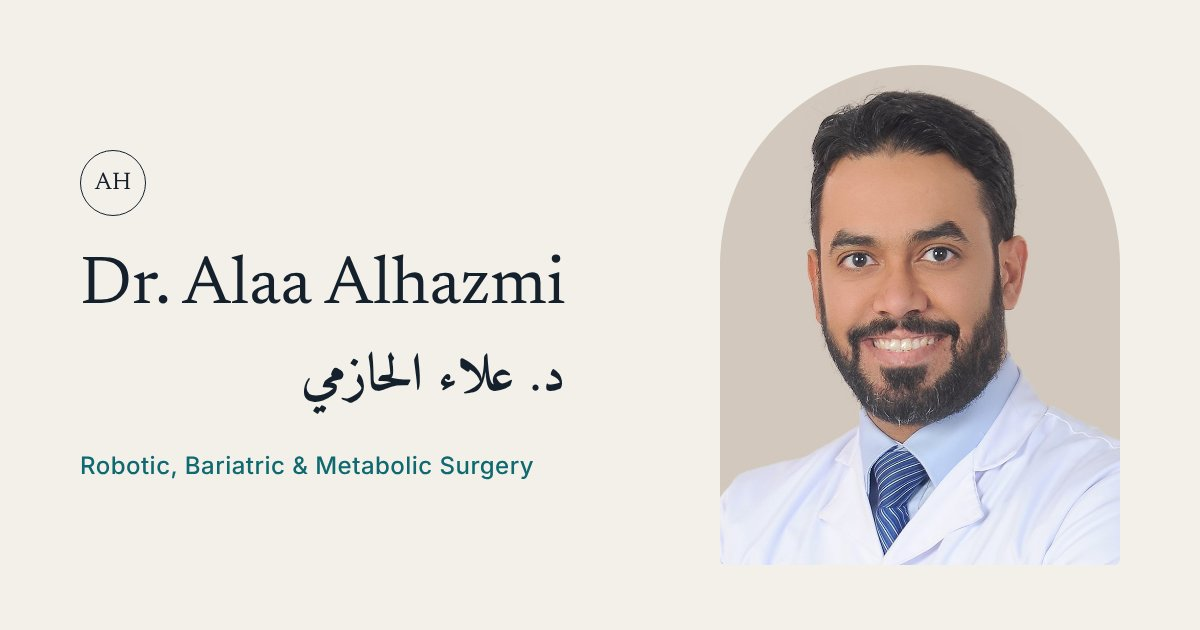
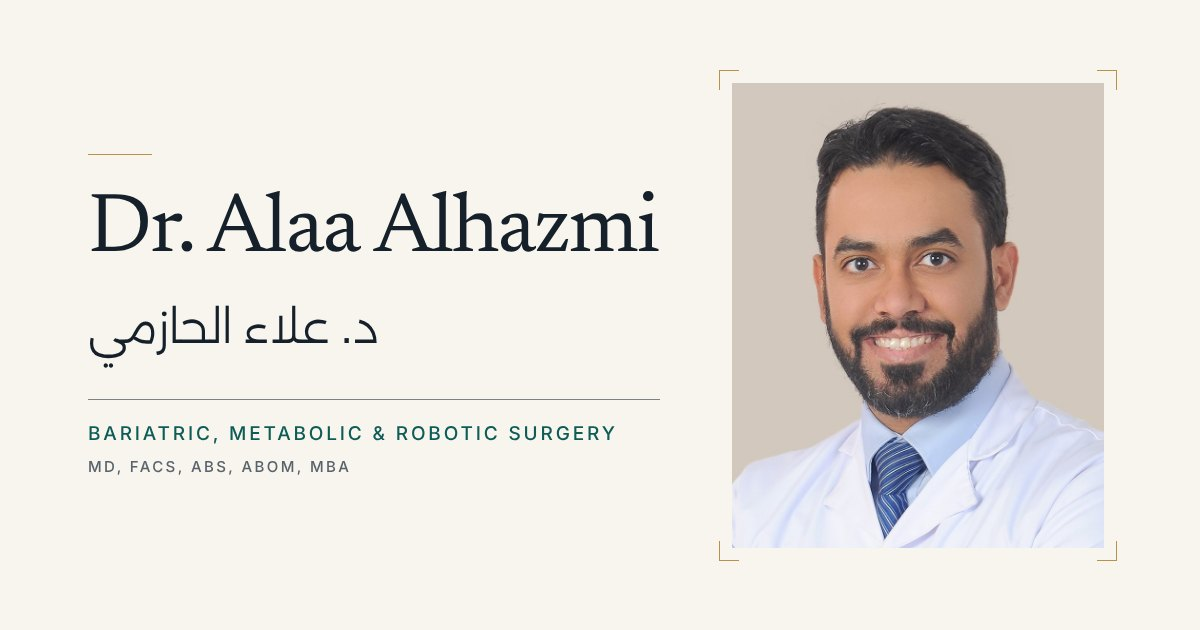
Use one tagline everywhere and relabel the 15+ figure
- Tagline is now 'Bariatric, Metabolic & Robotic Surgery' in the header,
  the root page descriptions and a new share image.
- The 15+ figure reads 'years as a consultant surgeon', matching the
  text on the homepage and About page.
- The header tagline stays on one line or is hidden on narrow screens.

Claude-Session: https://claude.ai/code/session_01UEnuPM4NDaCkJioxphUmXk

diff --git a/src/styles/global.css b/src/styles/global.css
@@ -174,7 +174,7 @@ em.accent { font-style: italic; }
 .header-row { display: grid; grid-template-columns: auto 1fr auto; align-items: center; column-gap: clamp(1rem, 3vw, 3rem); padding-block: 1.15rem; }
 .brand { text-decoration: none; display: grid; gap: 0.2rem; }
 .brand-name { white-space: nowrap; font-family: var(--serif); font-size: 1.45rem; line-height: 1.1; color: var(--ink); letter-spacing: -0.01em; }
-.brand-sub { font-size: 0.6875rem; letter-spacing: 0.17em; text-transform: uppercase; color: var(--muted); line-height: 1.3; }
+.brand-sub { white-space: nowrap; font-size: 0.6875rem; letter-spacing: 0.17em; text-transform: uppercase; color: var(--muted); line-height: 1.3; }
 :lang(ar) .brand-name { font-size: 1.3rem; font-weight: 400; line-height: 1.4; }
 :lang(ar) .brand-sub { font-size: 0.875rem; line-height: 1.5; }
 .nav { display: flex; flex-wrap: wrap; justify-content: center; gap: 0.25rem clamp(1rem, 2.2vw, 2.1rem); }
@@ -213,7 +213,9 @@ em.accent { font-style: italic; }
   .js .menu-btn { grid-column: 2; }
   .js .header-actions { grid-column: 3; }
 }
-@media (max-width: 27.5rem) { :lang(en) .brand-sub { display: none; } }
+/* The tagline shows only where it fits on one line. */
+@media (max-width: 36rem) { :lang(en) .brand-sub { display: none; } }
+@media (max-width: 28rem) { .brand-sub { display: none; } }
 @media (max-width: 26rem) { .header-row { column-gap: 0.5rem; } .header-actions { gap: 0.75rem; } .brand-sub { display: none; } .brand-name { font-size: 1.25rem; } :lang(ar) .brand-name { font-size: 1.15rem; } .menu-btn { padding-inline: 0.65rem; } }
 
 /* ---------- Hero: the cover ---------- */

diff --git a/src/data/site.ts b/src/data/site.ts
@@ -88,7 +88,7 @@ export const ui = {
   breadcrumb: { en: 'Breadcrumb', ar: 'مسار الصفحة' },
   newTab: { en: 'opens in a new tab', ar: 'يفتح في نافذة جديدة' },
   discuss: { en: 'Discuss your options', ar: 'تحدّث معنا عن خياراتك العلاجية' },
-  tagline: { en: 'Robotic & Bariatric Surgery', ar: 'الجراحة الروبوتية وجراحة السمنة' },
+  tagline: { en: 'Bariatric, Metabolic & Robotic Surgery', ar: 'جراحة السمنة والجراحة الأيضية والروبوتية' },
 };
 
 export type Treatment = {
